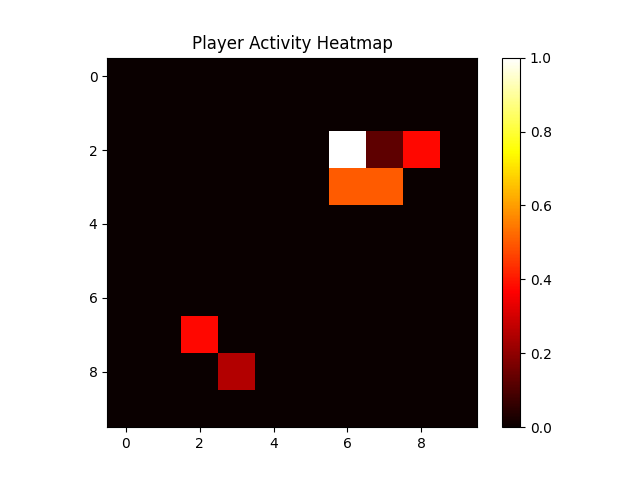
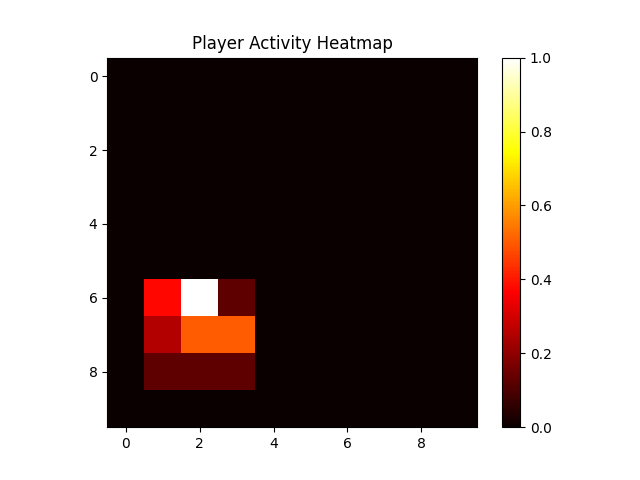
Demo working

Changed region(s): [[0.2188, 0.5625, 0.4062, 0.8125], [0.5, 0.25, 0.6875, 0.4375]]

diff --git a/src/voice_module.py b/src/voice_module.py
@@ -1,13 +1,16 @@
-import whisper
+import os
+from openai import OpenAI
 import sounddevice as sd
 import numpy as np
+from dotenv import load_dotenv
+from scipy.io.wavfile import write
 
-# Load the Whisper model
-model_name = "base"
-model = whisper.load_model(model_name)
+load_dotenv()
+
+client = OpenAI()
 
 
-def record_audio(duration=5, fs=16000):
+def record_audio(duration=7, fs=16000):
     print("Recording...")
     audio = sd.rec(int(duration * fs), samplerate=fs, channels=1, dtype='float32')
     sd.wait()
@@ -15,18 +18,21 @@ def record_audio(duration=5, fs=16000):
     return np.squeeze(audio)
 
 
-def transcribe_audio_whisper(audio, fs=16000):
-    # Save the audio to a temporary file
-    import tempfile
-    import os
-    with tempfile.NamedTemporaryFile(suffix=".wav", delete=False) as temp_audio_file:
-        temp_audio_file_name = temp_audio_file.name
-        # Convert the NumPy array to a WAV file
-        from scipy.io.wavfile import write
-        write(temp_audio_file_name, fs, audio)
-    # Transcribe the audio file using Whisper
-    result = model.transcribe(temp_audio_file_name)
-    os.remove(temp_audio_file_name)
-    transcribed_text = result["text"]
+def transcribe_audio_openai(audio, fs=16000):
+    # Define a normal file path for temporary storage
+    temp_audio_file_path = "temp_audio.wav"
+
+    # Save the audio data to this file
+    write(temp_audio_file_path, fs, audio)
+
+    # Open the saved audio file and send it to OpenAI for transcription
+    with open(temp_audio_file_path, "rb") as audio_file:
+        response = client.audio.transcriptions.create(model="whisper-1", file=audio_file)
+
+    # Delete the temporary file after transcription
+    os.remove(temp_audio_file_path)
+    print(response)
+    # Get transcription text
+    transcribed_text = response.text
     print(f"Transcribed Text: {transcribed_text}")
     return transcribed_text

diff --git a/src/data_processing.py b/src/data_processing.py
@@ -2,6 +2,10 @@ import numpy as np
 import pandas as pd
 import matplotlib.pyplot as plt
 from sklearn.preprocessing import MinMaxScaler
+import os
+
+
+os.environ["FFMPEG_PATH"] = r"C:\Users\nerdi\Desktop\ffmpeg\bin\ffmpeg.exe"
 
 # Initialize scaler for normalization
 scaler = MinMaxScaler()
@@ -75,12 +79,12 @@ def generate_heatmap():
     world_size = (10, 10)
     output_filename = "heatmap.png"
     player_positions = [
-        # Positions in Q1 (Top-left)
-        (2, 6), (2, 6), (3, 7), (2, 8), (3, 6),
-        (2, 6), (3, 7), (2, 7), (3, 6), (2, 6),
-        (3, 7), (2, 8), (3, 6), (2, 6), (2, 6),
-        (3, 7), (2, 8), (3, 6), (2, 6), (2, 6),
-        (7, 2), (8, 3), (7, 2), (8, 3), (7, 2),
+        # Positions in Q4 (Bottom-right)
+        (6, 2), (6, 2), (7, 3), (6, 1), (7, 2),
+        (6, 2), (7, 3), (6, 3), (7, 2), (6, 2),
+        (7, 3), (6, 1), (7, 2), (6, 2), (6, 2),
+        (7, 3), (6, 1), (7, 2), (6, 2), (6, 2),
+        (8, 1), (8, 2), (7, 1), (8, 3), (7, 1),
     ]
 
     heatmap_data = np.zeros(world_size)

diff --git a/app.py b/app.py
@@ -4,6 +4,9 @@ import src.data_processing as dp
 from src.game_adjustment_model import train_model, adjust_game_parameters
 from src.content_generation import generate_content, generate_voice_content
 from src.voice_module import transcribe_audio_whisper, record_audio
+import warnings
+
+warnings.filterwarnings("ignore")
 
 app = Flask(__name__)
 
@@ -25,7 +28,9 @@ scaler = dp.scaler  # Use the same scaler from data_processing
 
 @app.route('/')
 def index():
-    return render_template("index.html", mission=mission, npc_response=npc_response, heatmap_url=url_for('static', filename='heatmap.png'), player_metrics_classification=player_metrics_classification)
+    return render_template("index.html", mission=mission, npc_response=npc_response,
+                           heatmap_url=url_for('static', filename='heatmap.png'),
+                           player_metrics_classification=player_metrics_classification)
 
 
 # Route to adjust game parameters

diff --git a/src/demo.py b/src/demo.py
@@ -1,10 +1,14 @@
-from voice_module import record_audio, transcribe_audio_whisper
+from voice_module import record_audio, transcribe_audio_openai
 from content_generation import generate_voice_content
 from content_generation import generate_content
 from game_adjustment_model import adjust_game_parameters, train_model
 import time
 import torch
 import data_processing as dp
+import warnings
+warnings.filterwarnings("ignore")
+warnings.filterwarnings("ignore", category=FutureWarning)
+
 
 player_metrics = {
     'completion_time': 0,
@@ -60,7 +64,7 @@ def npc_interaction():
     print("NPC: 'Greetings traveler! What brings you here?'")
     # Record player's voice input
     audio = record_audio(duration=5, fs=16000)
-    player_input = transcribe_audio_whisper(audio)
+    player_input = transcribe_audio_openai(audio)
     if player_input:
         print(f"You said: '{player_input}'")
         # Generate NPC response

diff --git a/src/content_generation.py b/src/content_generation.py
@@ -39,7 +39,7 @@ def generate_content(quadrant, player_metrics):
         response = openai.chat.completions.create(
             model='gpt-4o',
             messages=[
-                {'role': 'system', 'content': 'You are a game content generator assistant.'},
+                {'role': 'system', 'content': 'You are a game content generator assistant. Use the setting information and create a short storyline, along with 3-4 objectives. Also return NPC names, along with professions and roles.'},
                 {'role': 'user', 'content': prompt}
             ],
             max_tokens=4096,

diff --git a/src/game_adjustment_model.py b/src/game_adjustment_model.py
@@ -53,8 +53,8 @@ def train_model(X_tensor, Y_tensor, input_size, output_size, epochs=100):
             loss = criterion(outputs, batch_Y)
             loss.backward()
             optimizer.step()
-        if (epoch + 1) % 20 == 0:
-            print(f"Epoch [{epoch + 1}/{epochs}], Loss: {loss.item():.4f}")
+        # if (epoch + 1) % 20 == 0:
+        #     print(f"Epoch [{epoch + 1}/{epochs}], Loss: {loss.item():.4f}")
 
     return model
 
